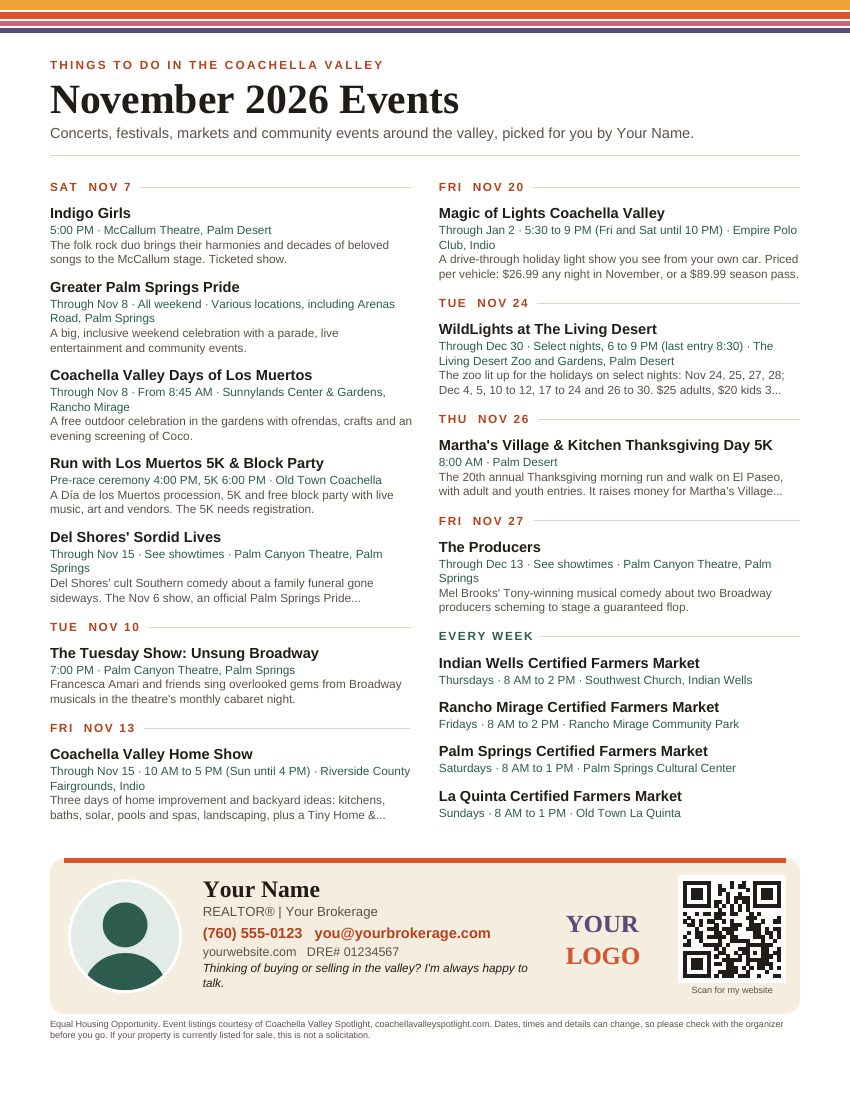
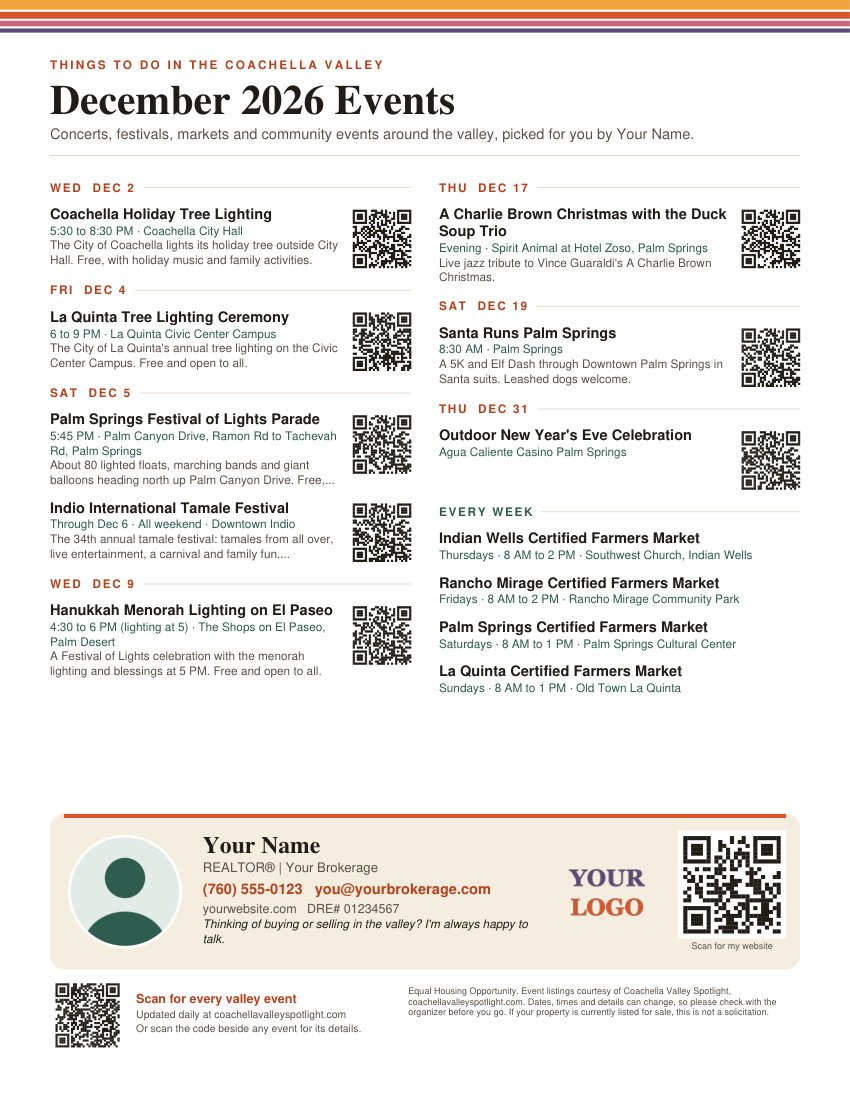
Agents page: new sample flyer image (December, event QRs and the bottom-left site QR)

Changed region(s): [[0.0612, 0.1545, 0.9482, 0.9582], [0.0, 0.0, 1.0, 0.0309], [0.0612, 0.0618, 0.5506, 0.1236]]

diff --git a/agents.html b/agents.html
@@ -56,7 +56,7 @@
 <h1>Your monthly valley events flyer, <span class="grad">with your name on it.</span></h1>
 <p>Every month, download a ready-to-send PDF of concerts, festivals, farmers markets and community events around the Coachella Valley, with your photo, phone, email, logo and a QR code to your website already on it, all on one page. It&rsquo;s free.</p>
 <ol class="agent-steps"><li><b>Create a free My Spotlight account</b> and add your contact info and photo once.</li><li><b>Pick the month and your cities.</b> Untick anything that isn&rsquo;t right for your farm.</li><li><b>Download the PDF.</b> Print it, mail it, email it or post it. Come back next month for a fresh one.</li></ol></div>
-<figure class="agent-sample"><img src="assets/img/agent-flyer-sample.jpg" alt="Sample flyer: a month of Coachella Valley events with an agent's photo, contact info and QR code at the bottom" width="612" height="792" loading="lazy"><figcaption>A sample flyer. Yours has your info on it.</figcaption></figure>
+<figure class="agent-sample"><img src="assets/img/agent-flyer-sample.jpg?v=20261109" alt="Sample flyer: a month of Coachella Valley events, each with a QR code to its details, with an agent's photo, contact info and QR code at the bottom" width="612" height="792" loading="lazy"><figcaption>A sample flyer. Yours has your info on it.</figcaption></figure>
 </div></section>
 <section class="agent-make" style="padding-bottom:var(--s5)"><div class="wrap"><h2 class="month-head" id="make"><span class="stripe-mini"></span>Make your flyer</h2>
 <div id="agent-app"><noscript><div class="empty">Turn on JavaScript to make your flyer.</div></noscript></div>
